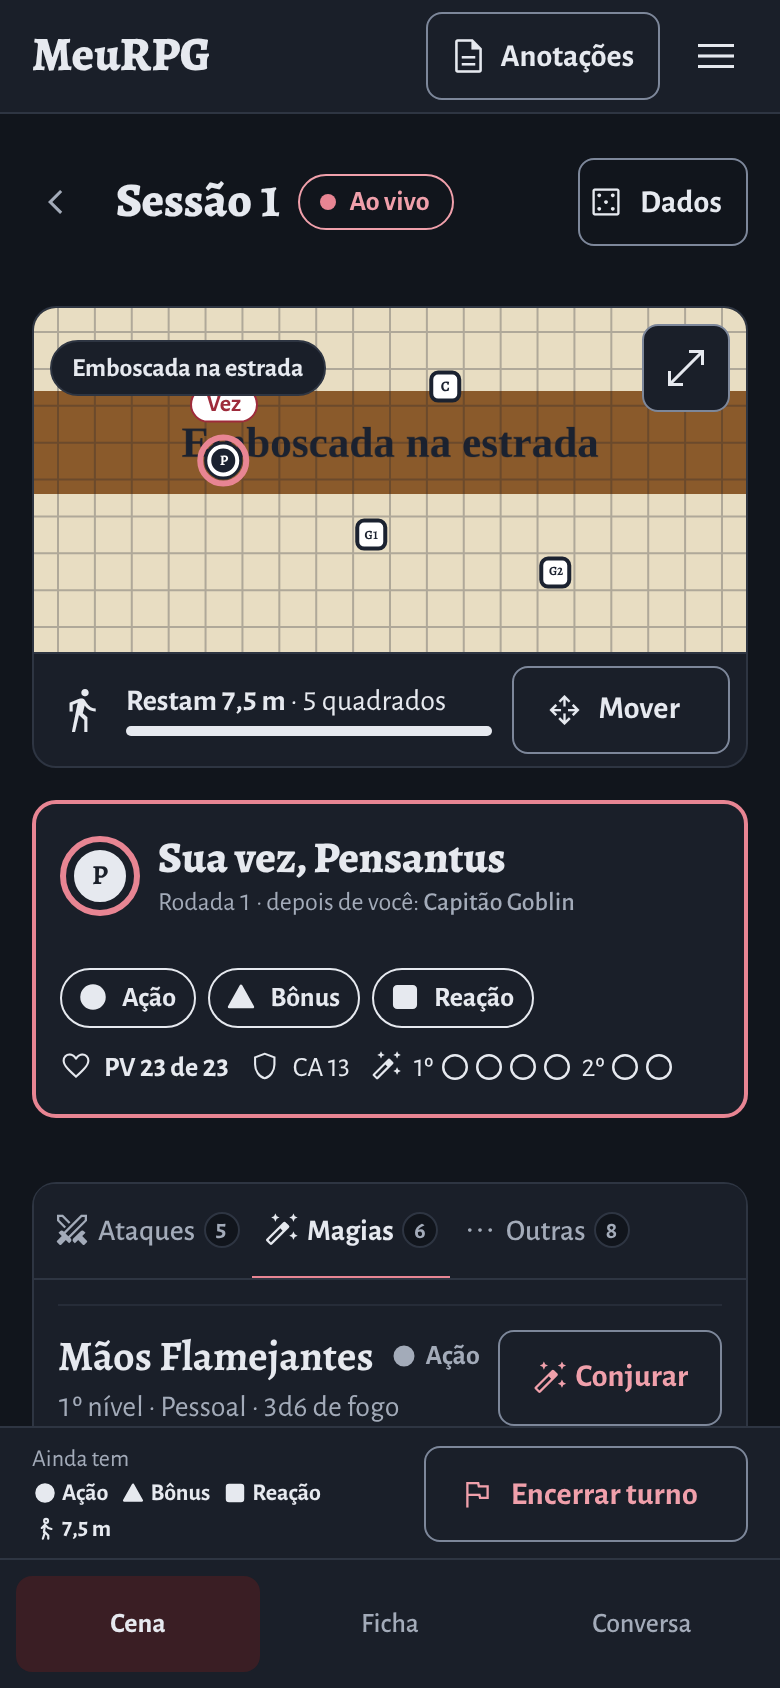
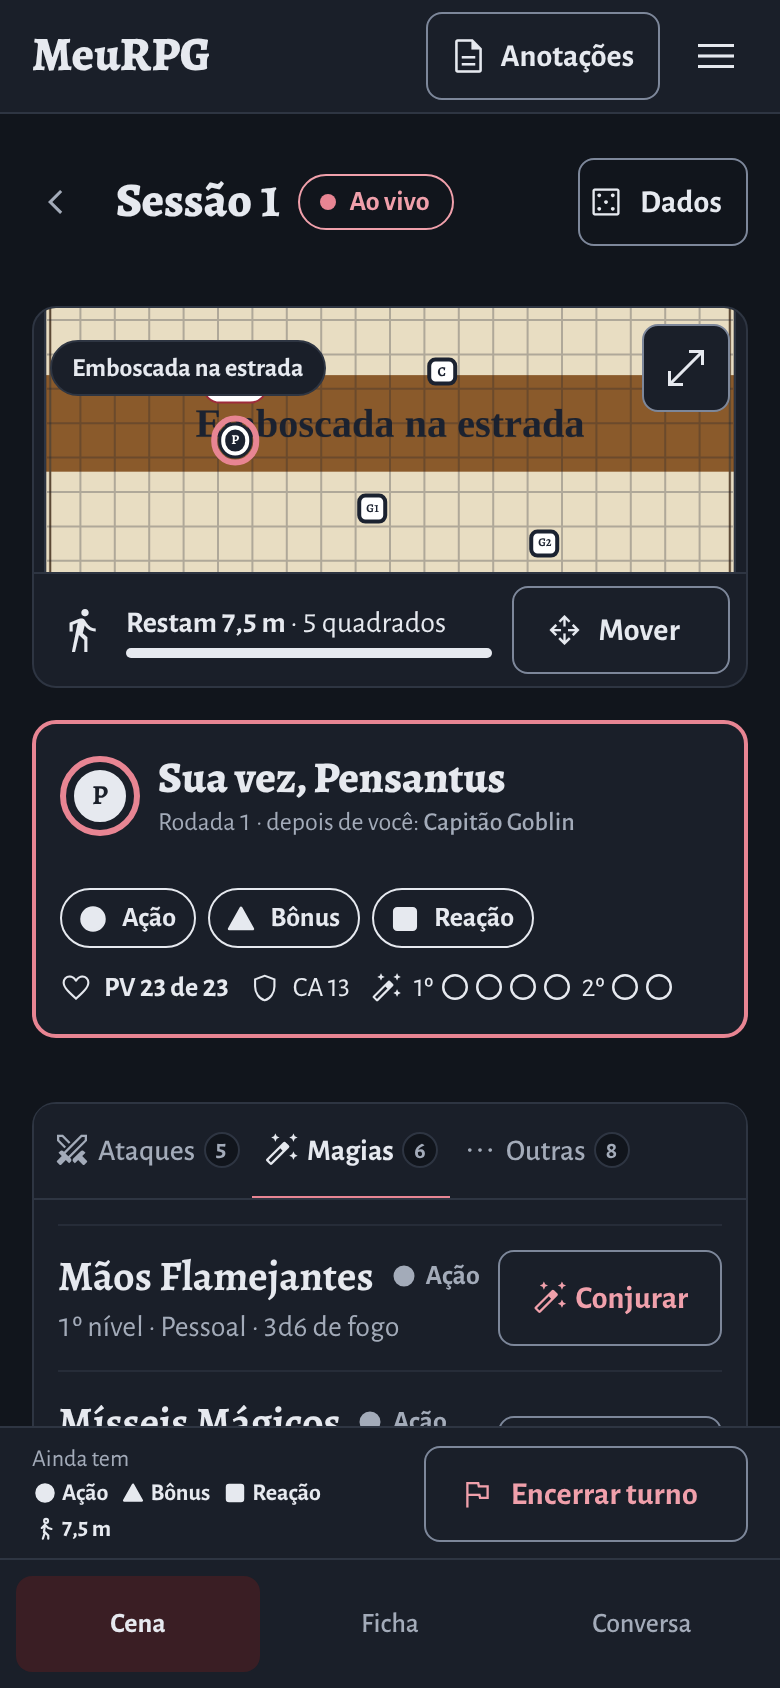
docs(screenshots): the player's combat, seventh round on a021d41dc, with the target-list failure diagnostics
Claude-Session: https://claude.ai/code/session_01RzowEDZuTmPzAXAp9dZCZJ

diff --git a/compact-player-combat/README.md b/compact-player-combat/README.md
@@ -1,4 +1,4 @@
-# Combate do jogador, telas compactas (sexta rodada em 223321dae: pensantus-turno 320/390/1280, pensantus-turno-acoes-390-escuro, toren-turno-acoes-390-escuro, alvo-adaga-fora-390-claro, alvo-adaga-escolher-390-escuro, alvo-antes-de-rolar-390-escuro, alvo-fire-bolt-390-escuro, alvo-misseis-390-escuro e alvo-misseis-1280-claro refeitos; quinta rodada: alcance, fire-bolt, cobertura, misseis e antes-de-rolar a 320/390 e pensantus-turno-acoes-390-escuro refeitos em 66230e8d2; quarta rodada: os estados afetados e uma amostra foram refeitos em 450b56661; o restante e da terceira rodada, 109994a90)
+# Combate do jogador, telas compactas (setima rodada em a021d41dc: pensantus-turno-390-escuro, pensantus-turno-acoes-390-escuro e toren-turno-acoes-390-escuro refeitos; diagnosticos em `diagnostics/`; sexta rodada em 223321dae: pensantus-turno 320/390/1280, pensantus-turno-acoes-390-escuro, toren-turno-acoes-390-escuro, alvo-adaga-fora-390-claro, alvo-adaga-escolher-390-escuro, alvo-antes-de-rolar-390-escuro, alvo-fire-bolt-390-escuro, alvo-misseis-390-escuro e alvo-misseis-1280-claro refeitos; quinta rodada: alcance, fire-bolt, cobertura, misseis e antes-de-rolar a 320/390 e pensantus-turno-acoes-390-escuro refeitos em 66230e8d2; quarta rodada: os estados afetados e uma amostra foram refeitos em 450b56661; o restante e da terceira rodada, 109994a90)
 
 Todas as capturas sao da **pilha real** (backend, devidp, CockroachDB e o app Angular compilado de `feat/compact-player-combat` @ 109994a90), semeada pelos helpers do e2e (Playwright, Chromium); **nenhuma e harness**. Claro/escuro por `prefers-color-scheme`. 320, 390 e 768 em 2x; 1280 em 1x.
 

diff --git a/compact-player-combat/diagnostics/README.md b/compact-player-combat/diagnostics/README.md
@@ -1,0 +1,3 @@
+# Diagnosticos (setima rodada, a021d41dc)
+
+Capturas de falha dos specs e2e reais em que a escolha do alvo pela lista nao avanca: a folha fica no passo 1 "Alvo" depois do clique no rotulo "Goblin 1", o radio fica sem marca e nao ha evento `change`. Causa: o `(click)` do radio em `attack-sheet.html` (linha 40) termina em `$event.detail > 0 && advance()`; o Angular trata um manipulador que devolve `false` como `preventDefault()`, e o clique que o rotulo reenvia ao radio tem `detail` 0, entao o clique e cancelado.
